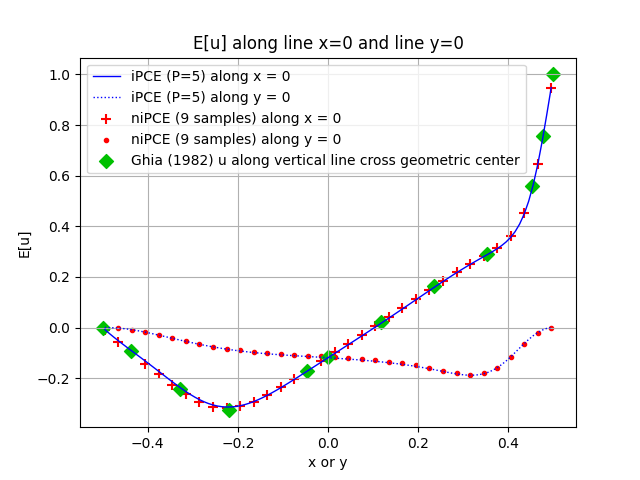
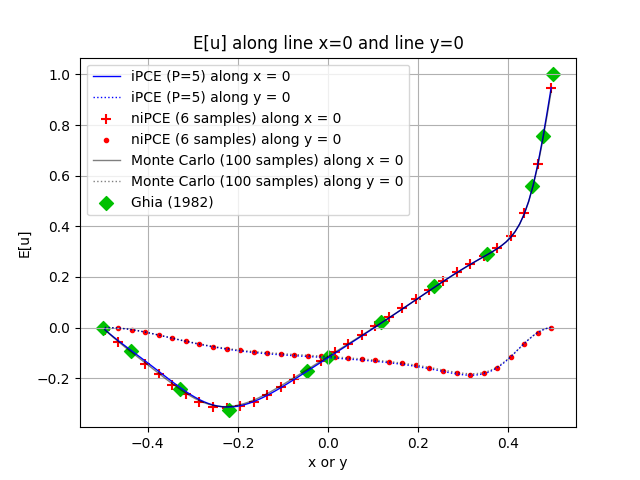
backup

diff --git a/lid-cavity/show_result.py b/lid-cavity/show_result.py
@@ -98,8 +98,8 @@ def plot_variable(varname: str):
     plt.figure()
     plt.plot(vy, ipce_var_vline, label=f'iPCE (P=5) along x = {x_plot}', linewidth=1, color='blue')
     plt.plot(hx, ipce_var_hline, label=f'iPCE (P=5) along y = {y_plot}', linewidth=1, color='blue', ls=':')
-    plt.scatter(vy[::3], nipce_var_vline[::3], label=f'niPCE (9 samples) along x = {x_plot}', marker='+', s=50, c='red')
-    plt.scatter(hx[::3], nipce_var_hline[::3], label=f'niPCE (9 samples) along y = {y_plot}', marker='.', c='red')
+    plt.scatter(vy[::3], nipce_var_vline[::3], label=f'niPCE (6 samples) along x = {x_plot}', marker='+', s=50, c='red')
+    plt.scatter(hx[::3], nipce_var_hline[::3], label=f'niPCE (6 samples) along y = {y_plot}', marker='.', c='red')
     plt.plot(vy, mc_var_vline, label=f'Monte Carlo (100 samples) along x = {x_plot}', linewidth=1, color='black', alpha=0.5)
     plt.plot(hx, mc_var_hline, label=f'Monte Carlo (100 samples) along y = {y_plot}', linewidth=1, color='black', ls=':', alpha=0.5)
     if varname == 'E[u]':
